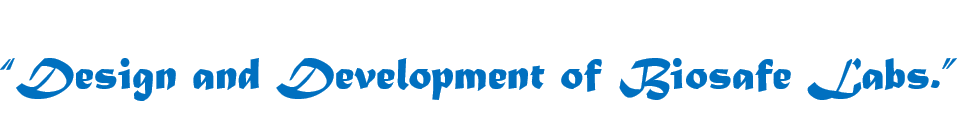
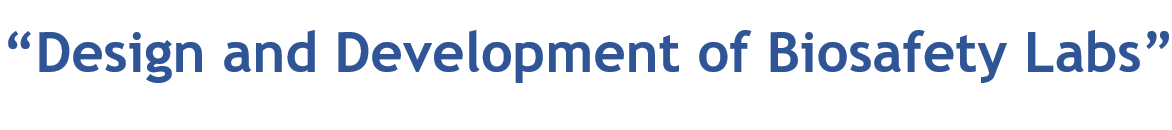
ky

Changed region(s): [[0.0, 0.2231, 1.0, 0.843]]

diff --git a/index.html b/index.html
@@ -68,7 +68,7 @@
         </ul>
     </div>
 
-</div><br><br><br>
+</div><br><br><br><br>
 
 
 <div class="bbs">
@@ -91,7 +91,7 @@
     <div class="carousel-inner">
         <div class="carousel-item active">
             <center>
-            <img class="d-block" src="img/h2.png" alt="First slide" style="max-width:800px;max-height:368px;">
+            <img class="d-block" src="img/b.png" alt="First slide" style="max-width:800px;max-height:368px;">
             </center>
         </div>
 
@@ -107,7 +107,7 @@
         </div>
         <div class="carousel-item">
             <center>
-                <img class="d-block" src="img/b.png" alt="Fourth slide" style="max-width:800px;max-height:368px;" >
+                <img class="d-block" src="img/h2.png" alt="Fourth slide" style="max-width:800px;max-height:368px;" >
             </center>
 
         </div>

diff --git a/project.html b/project.html
@@ -71,7 +71,7 @@
 <body>
 <div class="container">
     <div class="page-header text-center">
-        <h1 style=""><b>Projects done by PiLLAR9TAE</b></h1>
+        <h1 style=""><b>Accomplishments of PiLLAR9TAE</b></h1>
         <hr>
 
         <div class="hover03 column w3-row-padding">
@@ -196,7 +196,7 @@
         <div class="row">
             <div class="col-lg-12">
                 <div class="page-header text-center">
-                    <h1 id="about"><b> Orders in Hand </b></h1>
+                    <h1 id="about"><b> Projects Done by PiLLAR9 TAE </b></h1>
                 </div>
                 <ol>
                     <li>
